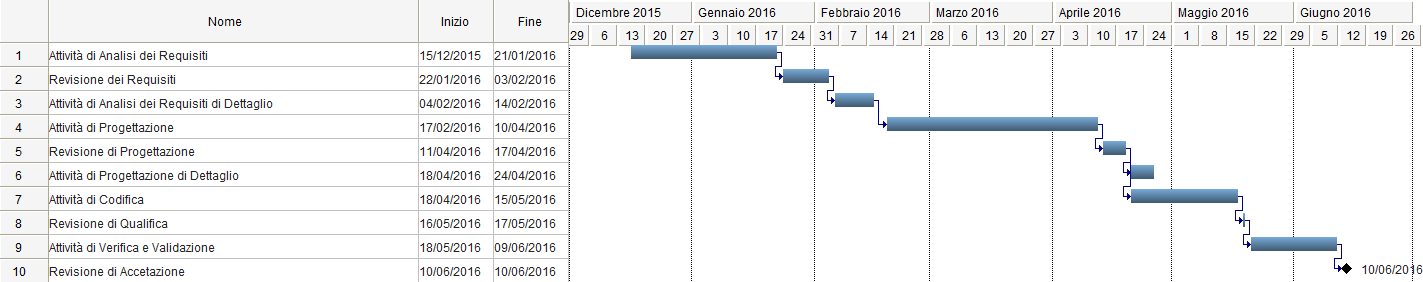
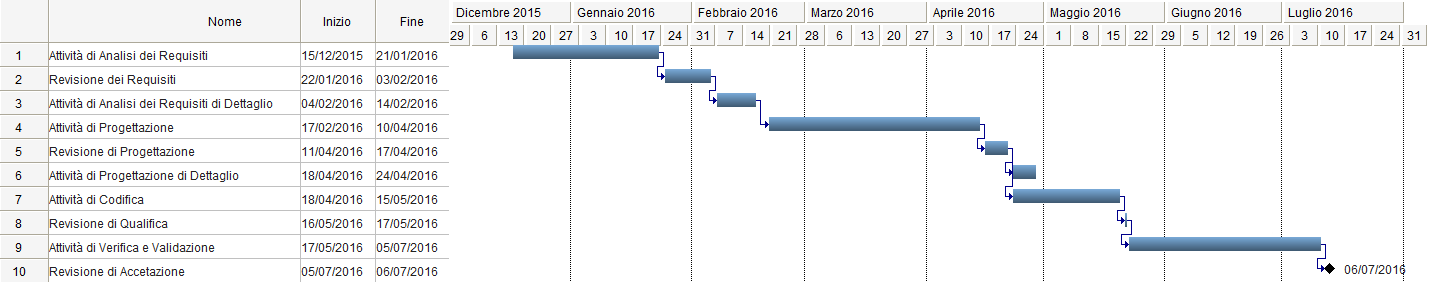
updated pdp

diff --git a/RA/Esterni/PianoDiProgetto_v4.0.0.tex b/RA/Esterni/PianoDiProgetto_v4.0.0.tex
@@ -51,7 +51,15 @@
     \hline
     Versione & Autore & Ruolo & Data & Descrizione \\
     \hline
-    4.0.0 & Davide Trevisan & Responsabile & 2016-06-15 & Approvazione documento\\
+    4.0.0 & Davide Trevisan & Responsabile & 2016-06-24 & Approvazione documento\\
+    \hline
+    3.3.0 & Marco Boseggia & Verificatore & 2016-06-18 & Verifica sezioni 3,4,5\\
+    \hline
+    3.2.3 & Francesco Agostini & Analista & 2016-06-17 & Aggiornamento scadenze progetto (sezione 3)\\
+    \hline
+    3.2.2 & Francesco Agostini & Analista & 2016-06-17 & Aggiornamento sezione analisi rischi (sez. 4)\\
+    \hline
+    3.2.1 & Francesco Agostini & Analista & 2016-06-16 & Aggiornamento gantt fase validazione (sez. 5.1.5.1) e gantt totale (sez. 5.1.6.1)\\
     \hline
     3.2.0 & Marco Boseggia & Verificatore & 2016-06-15 & Verifica sezioni 7.4 e 7.5\\
     \hline
@@ -190,7 +198,7 @@ Le attività di pianificazione del progetto saranno basate sulle scadenze qui ri
 \item {Revisione dei Requisiti (RR): 2016-02-16;}
 \item {Revisione di Progetto (RP): 2016-04-18;}
 \item {Revisione di Qualifica (RQ): 2016-05-23;}
-\item {Revisione di Accettazione (RA): 2016-06-17.}
+\item {Revisione di Accettazione (RA): 2016-07-11.}
 \end{itemize}
 Si precisa inoltre che il gruppo intende presentare alla Revisione di Progetto la \textit{Specifica Tecnica} e non la \textit{Definizione di Prodotto}.
 \section{Analisi dei rischi}
@@ -288,7 +296,10 @@ Per ogni possibile rischio previsto l'analisi ha fornito i seguenti parametri:
 \textbf{Contromisure di mitigazione}: Il \textit{Responsabile di Progetto} ha stabilito una frequenza di incontri fissa.
 Il gruppo ha inoltre creato alcuni canali di comunicazione remota in modo da poter lavorare quanto più possibile in
 coordinazione reciproca.\\
-\textbf{Riscontro}: Gli impegni personali dei membri del gruppo non hanno comportato ritardi o problemi di nessun genere grazie alle misure di prevenzione scritte in precedenza.\\
+\textbf{Riscontro}: Gli impegni personali dovuti in particolar modo a impegni universitari sono stati maggiori 
+del previsto durante il periodo relativo alla validazione.\\Questo ha influito anche più del previsto 
+facendo saltare la consegna del progetto al gruppo. Pertando il gruppo ha dovuto spostare la consegna del 
+progetto in data 5 luglio.\\
 
 \paragraph{Inesperienza}
 \textbf{Categoria}: Competenza tecnica\\
@@ -350,7 +361,9 @@ Si è verificato in un paio di occasioni questo tipo di problema, fortunatamente
 \textbf{Descrizione}: Una cattiva stima delle \gloss{attività} per inesperienza dei membri del gruppo potrebbe portare a forti ritardi rispetto al piano stabilito.\\
 \textbf{Contromisure di mitigazione:} Il \textit{Responsabile} tiene traccia dell'avanzamento delle attività. In tal modo potrà assegnare più persone alle attività che richiedono più tempo del previsto.\\
 \textbf{Riscontro}:
-Le stime delle attività non sono state sempre molto precise, tuttavia attuando le contromisure per questo rischio, l'impatto è stato ridotto notevolmente confermando buone tali contromisure.\\ Inoltre si è scelto di essere particolarmente cauti con la pianificazione delle attività relative alla progettazione, cercando di effettuare riunioni interne frequenti per controllare lo stato di avanzamento e se necessario variando le pianificazioni effettuate in precedenza.
+Le stime delle attività non sono state sempre molto precise, tuttavia attuando le contromisure per questo rischio, l'impatto è stato ridotto notevolmente confermando buone tali contromisure.\\ Inoltre si è scelto di essere particolarmente cauti con la pianificazione delle attività relative alla progettazione, cercando di effettuare riunioni interne frequenti per controllare lo stato di avanzamento e se necessario variando le pianificazioni effettuate in precedenza.\\Per quanto riguarda la fase di validazione la stima delle attività è stata 
+sufficientemente precisa ma la consegna si è dovuta spostare a causa di diversi impegni per altri esami da parte 
+della maggior parte dei membri del gruppo.\\
 
 \paragraph{Dissensi tra componenti}
 \textbf{Categoria}: Organizzativa\\
